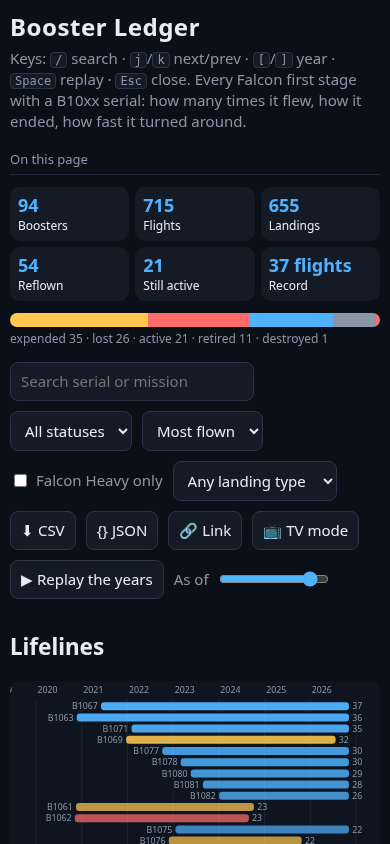
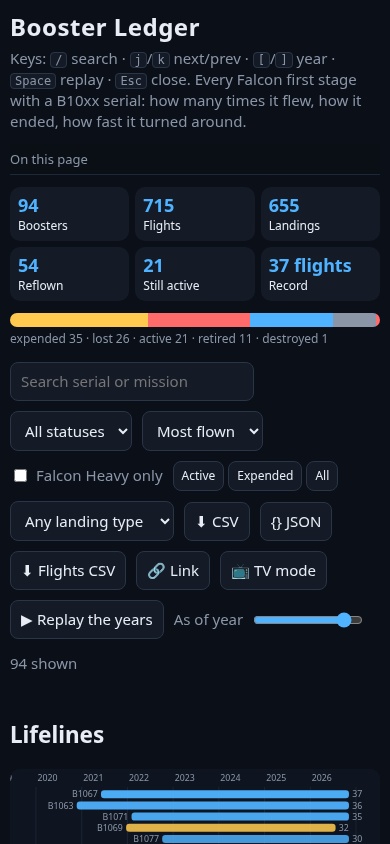
Round 31-33: quick status chips, flights CSV, match count, CHANGELOG.md, a11y (scrub+download labels); 200 unit / 107 e2e

Changed region(s): [[0.0308, 0.5545, 0.9231, 1.0]]

diff --git a/src/app.js b/src/app.js
@@ -113,7 +113,7 @@ function current() {
   const lt = $('lt').value; if (lt && lt !== 'all') { const keep = L.serialsWithLandingType(FL, lt); bs = bs.filter(b => keep.has(b.serial)); }
   return bs;
 }
-function render() { const bs = L.asOf(current(), FL, cutoff); stats(bs); fate(bs); lanes(bs); lists(bs); }
+function render() { const bs = L.asOf(current(), FL, cutoff); stats(bs); fate(bs); lanes(bs); lists(bs); const mn = $('matchn'); if (mn) mn.textContent = `${bs.length} shown`; }
 for (const k of Object.keys(L.statusCounts(all))) $('status').insertAdjacentHTML('beforeend', `<option value="${esc(k)}">${esc(k)}</option>`);
 const opts = L.sortBy(all, 'flights').map(b => `<option>${esc(b.serial)}</option>`).join('');
 $('ca').innerHTML = $('cb').innerHTML = opts; $('ca').selectedIndex = 0; $('cb').selectedIndex = 1;
@@ -122,7 +122,15 @@ $('q').value = st.q; if ([...$('status').options].some(o => o.value === st.statu
 if (st.a) $('ca').value = st.a; if (st.b) $('cb').value = st.b;
 $('ca').onchange = $('cb').onchange = () => { cmp(); syncUrl(); };
 $('q').oninput = $('status').onchange = $('sort').onchange = $('fh').onchange = $('lt').onchange = () => { render(); syncUrl(); };
+$('quick')?.querySelectorAll('button').forEach(btn => btn.onclick = () => { $('status').value = btn.dataset.st; render(); syncUrl(); });
 $('csv').onclick = () => { const cols = ['serial', 'status', 'flights', 'landings_ok', 'landings_attempted', 'first', 'last', 'source']; const blob = new Blob([L.toCSV(L.sortBy(current(), $('sort').value), cols)], { type: 'text/csv' }); const a = document.createElement('a'); a.href = URL.createObjectURL(blob); a.download = 'booster-ledger.csv'; a.click(); setTimeout(() => URL.revokeObjectURL(a.href), 1000); };
+$('fcsv') && ($('fcsv').onclick = () => {
+  const keep = new Set(current().map(b => b.serial));
+  const rows = FL.filter(f => keep.has(f.serial));
+  const cols = ['serial','n','mission','net','launch_status','rocket','pad','landing_attempt','landing_success','landing_loc','landing_type','source'];
+  const blob = new Blob([L.toCSV(rows, cols)], { type: 'text/csv' });
+  const a = document.createElement('a'); a.href = URL.createObjectURL(blob); a.download = 'booster-flights.csv'; a.click(); setTimeout(() => URL.revokeObjectURL(a.href), 1000);
+});
 $('json').onclick = () => { const rows = L.sortBy(current(), $('sort').value).map(b => ({ serial: b.serial, status: b.status, block: L.blockOf(b.details, b.serial), flights: b.flights, landings_ok: b.landings_ok, landings_attempted: b.landings_attempted, first: b.first, last: b.last, source: b.source })); const blob = new Blob([JSON.stringify({ exported_at: new Date().toISOString(), boosters: rows }, null, 2)], { type: 'application/json' }); const a = document.createElement('a'); a.href = URL.createObjectURL(blob); a.download = 'booster-ledger.json'; a.click(); setTimeout(() => URL.revokeObjectURL(a.href), 1000); };
 $('share').onclick = async () => { syncUrl(); try { await navigator.clipboard.writeText(location.href); $('share').textContent = '✓ Copied'; } catch { $('share').textContent = '✓ In address bar'; } setTimeout(() => $('share').textContent = '🔗 Link', 1500); }; $('close').onclick = () => $('drawer').close();
 let playing = false;

diff --git a/src/index.html b/src/index.html
@@ -5,12 +5,13 @@
 <section class="controls"><input id="q" placeholder="Search serial or mission" aria-label="search"><select id="status" aria-label="status"><option value="all">All statuses</option></select>
 <select id="sort" aria-label="sort"><option value="flights">Most flown</option><option value="first">First flight</option><option value="newest">Newest</option></select>
 <label class="chk"><input type="checkbox" id="fh"> Falcon Heavy only</label>
+<span id="quick" class="quick"><button type="button" data-st="active">Active</button><button type="button" data-st="expended">Expended</button><button type="button" data-st="all">All</button></span>
 <select id="lt" aria-label="landing type"><option value="all">Any landing type</option><option value="ASDS">ASDS (droneship)</option><option value="RTLS">RTLS (land)</option><option value="Ocean">Ocean</option><option value="EXP">Expended</option></select>
-<button id="csv" aria-label="CSV: download the boosters shown">⬇ CSV</button><button id="json" aria-label="JSON: download the boosters shown">{} JSON</button>
+<button id="csv" aria-label="⬇ CSV: download the boosters shown">⬇ CSV</button><button id="json" aria-label="{} JSON: download the boosters shown">{} JSON</button><button id="fcsv" aria-label="⬇ Flights CSV: download flights for boosters shown">⬇ Flights CSV</button>
 <button id="share" aria-label="Link: copy a link to this view">🔗 Link</button>
 <a id="tvlink" href="?mode=tv">📺 TV mode</a>
 <button id="play">▶ Replay the years</button>
-<label class="scrub">As of <input id="scrub" type="range" min="0" max="0" value="0" aria-label="Year scrubber"><span id="year" aria-live="polite"></span></label></section>
+<label class="scrub">As of year <input id="scrub" type="range" min="0" max="0" value="0"><span id="year" aria-live="polite"></span></label><span id="matchn" class="sub" aria-live="polite"></span></section>
 <main><section><h2>Lifelines</h2><div id="lanewrap"><svg id="axis" aria-hidden="true"></svg><svg id="lanes" role="group" aria-label="booster lifelines, one bar per booster; press Enter on a bar for details"></svg></div></section>
 <aside><h2>Records</h2><div id="records"></div><h2>Firsts</h2><div id="firsts"></div><h2>Most flown</h2><ol id="top"></ol><h2>Fastest turnaround</h2><ol id="fast"></ol></aside></main>
 <div id="panels"><section id="fleet"><h2>Active fleet over time</h2><p class="sub">Boosters that had flown by each year-end and had not yet flown their last (or are still active). Dashed line = all that had ever flown by then. * = year to date.</p><svg id="fleetsvg" role="img" aria-label="active fleet size by year"></svg><div id="blocks" class="legend"></div></section>

diff --git a/test/r32.test.js b/test/r32.test.js
@@ -1,0 +1,25 @@
+import { describe, it, expect } from 'vitest';
+import fs from 'node:fs';
+import * as L from '../src/ledger.js';
+const FL = JSON.parse(fs.readFileSync('src/flights.json', 'utf8')).flights;
+const all = L.load(JSON.parse(fs.readFileSync('src/boosters.json', 'utf8')));
+
+describe('edge cases', () => {
+  it('toCSV escapes formulas', () => {
+    const csv = L.toCSV([{ serial: '=CMD', status: 'active' }], ['serial', 'status']);
+    expect(csv).toContain("\"'=CMD\"");
+  });
+  it('linePath empty', () => expect(L.linePath([], x => x, y => y)).toBe(''));
+  it('heavyBoosters sorted unique', () => {
+    const h = L.heavyBoosters(FL);
+    expect(h).toEqual([...h].sort());
+    expect(new Set(h).size).toBe(h.length);
+  });
+  it('firsts sources are safeUrl-ok', () => {
+    for (const r of L.firsts(FL, all)) expect(L.safeUrl(r.source)).toBe(r.source);
+  });
+  it('reuseCurve share decreases', () => {
+    const c = L.reuseCurve(all);
+    for (let i = 1; i < c.length; i++) expect(c[i].share).toBeLessThanOrEqual(c[i - 1].share);
+  });
+});

diff --git a/e2e/r31.spec.js b/e2e/r31.spec.js
@@ -1,0 +1,18 @@
+import { test, expect } from '@playwright/test';
+const go = async p => { await p.goto('/'); await p.waitForSelector('body[data-ready="1"]'); };
+
+test('quick Active filter', async ({ page }) => {
+  await go(page);
+  const all = await page.locator('#lanes .lane').count();
+  await page.locator('#quick button[data-st="active"]').click();
+  const n = await page.locator('#lanes .lane').count();
+  expect(n).toBeGreaterThan(0);
+  expect(n).toBeLessThan(all);
+  expect(await page.locator('#status').inputValue()).toBe('active');
+});
+
+test('flights CSV download', async ({ page }) => {
+  await go(page);
+  const [download] = await Promise.all([page.waitForEvent('download'), page.click('#fcsv')]);
+  expect(download.suggestedFilename()).toBe('booster-flights.csv');
+});

diff --git a/src/style.css b/src/style.css
@@ -65,3 +65,5 @@ body.tv>*:not(#tv){display:none!important}html.tv,body.tv{padding:0;margin:0;ove
 #tocwrap[open] summary{color:var(--acc)}
 #toc{position:static;border:0;background:transparent;padding:6px 0 0;margin:0}
 @media (min-width:900px){#tocwrap{position:sticky}#tocwrap summary{display:none}#tocwrap nav{display:flex!important}#tocwrap{padding-top:0}}
+.quick{display:flex;gap:4px}.quick button{padding:6px 8px;font-size:12px}
+.quick button:hover,.quick button:focus-visible{border-color:var(--acc);color:var(--acc)}

diff --git a/e2e/r32.spec.js b/e2e/r32.spec.js
@@ -1,0 +1,8 @@
+import { test, expect } from '@playwright/test';
+test('match count updates with filters', async ({ page }) => {
+  await page.goto('/'); await page.waitForSelector('body[data-ready="1"]');
+  await expect(page.locator('#matchn')).toContainText('94 shown');
+  await page.locator('#quick button[data-st="active"]').click();
+  const n = await page.locator('#lanes .lane').count();
+  await expect(page.locator('#matchn')).toHaveText(`${n} shown`);
+});

diff --git a/CHANGELOG.md b/CHANGELOG.md
@@ -1,0 +1,25 @@
+# Changelog
+
+## 0.2.0 — 2026-11-05 (draft PR #1)
+
+TokenMax final-day burn rounds 17–32 on branch `v0.2`.
+
+### Added
+- Year scrubber + `[`/`]` nudge; Space replay shares the same cutoff
+- Mission-name search; landing-type filter; quick Active/Expended/All chips
+- Drawer mission timeline SVG; block version; Falcon Heavy flight note
+- Active fleet over time, landing success rate, monthly heatmap, turnaround histogram
+- Reuse curve; pad cadence; recovered share by year; Firsts panel
+- Compare table: block + per-spot landing rows
+- JSON + Flights CSV downloads; shareable `?y=` / `?lt=`
+- Compact sticky on-this-page TOC (open on desktop, collapsed on phone)
+- Mutation suite (18 mutants) and deep DOM-vs-raw number tests
+
+### Fixed
+- Interrupted mutation no longer leaves `server.js` path guard disabled
+- Year-bar total labels no longer clip above tall phone bars
+- TV mode overflow/`html.tv` height lock
+- Traversal tests hit a path that actually escapes (`/..%2f…`)
+
+### Data
+- Still the committed Launch Library 2 snapshots only; `validate.mjs` cross-checks.
